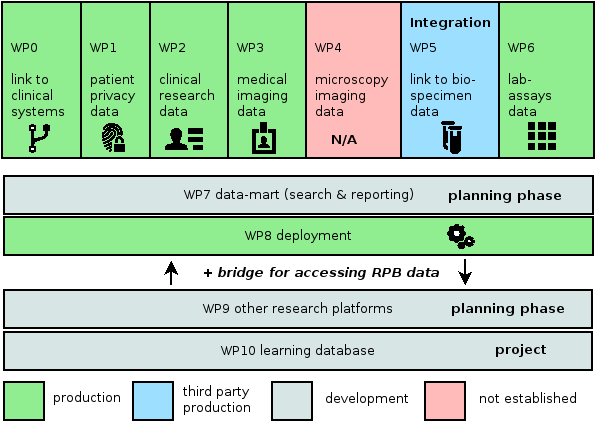
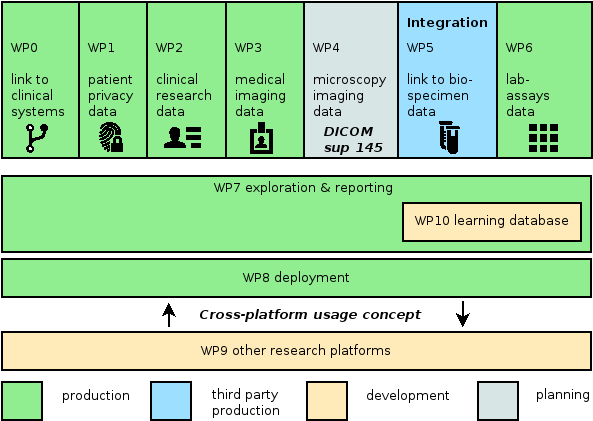
Update work packages

diff --git a/components.html b/components.html
@@ -85,7 +85,7 @@
             </ul>
           <h3>WP4 - microscopy imaging</h3>
             <ul>
-              <li>(*planned)</li>
+              <li>DICOM Whole Slide Imaging (WSI) - <a href="http://dicom.nema.org/Dicom/DICOMWSI" target="_new">Supplement 145</a></li>
             </ul>
           <h3>WP5 - bio specimen data</h3>
             <ul>
@@ -97,7 +97,7 @@
             </ul>
           <h3>WP7 - data-mart</h3>
             <ul>
-              <li>(cross component search and reporting)</li>
+              <li>Utilising LAB - cross component search and reporting</li>
             </ul>
           <h3>WP8 - platform deployment</h3>
             <ul>
@@ -111,7 +111,7 @@
             </ul>
           <h3>WP10 - learning database</h3>
             <ul>
-              <li>(ETL workflows for preparation of datasets for machine learning purposes)</li>
+              <li>Utilising LAB - ETL workflows for preparation of datasets for machine learning purposes</li>
             </ul>
         </div>
       </div>
